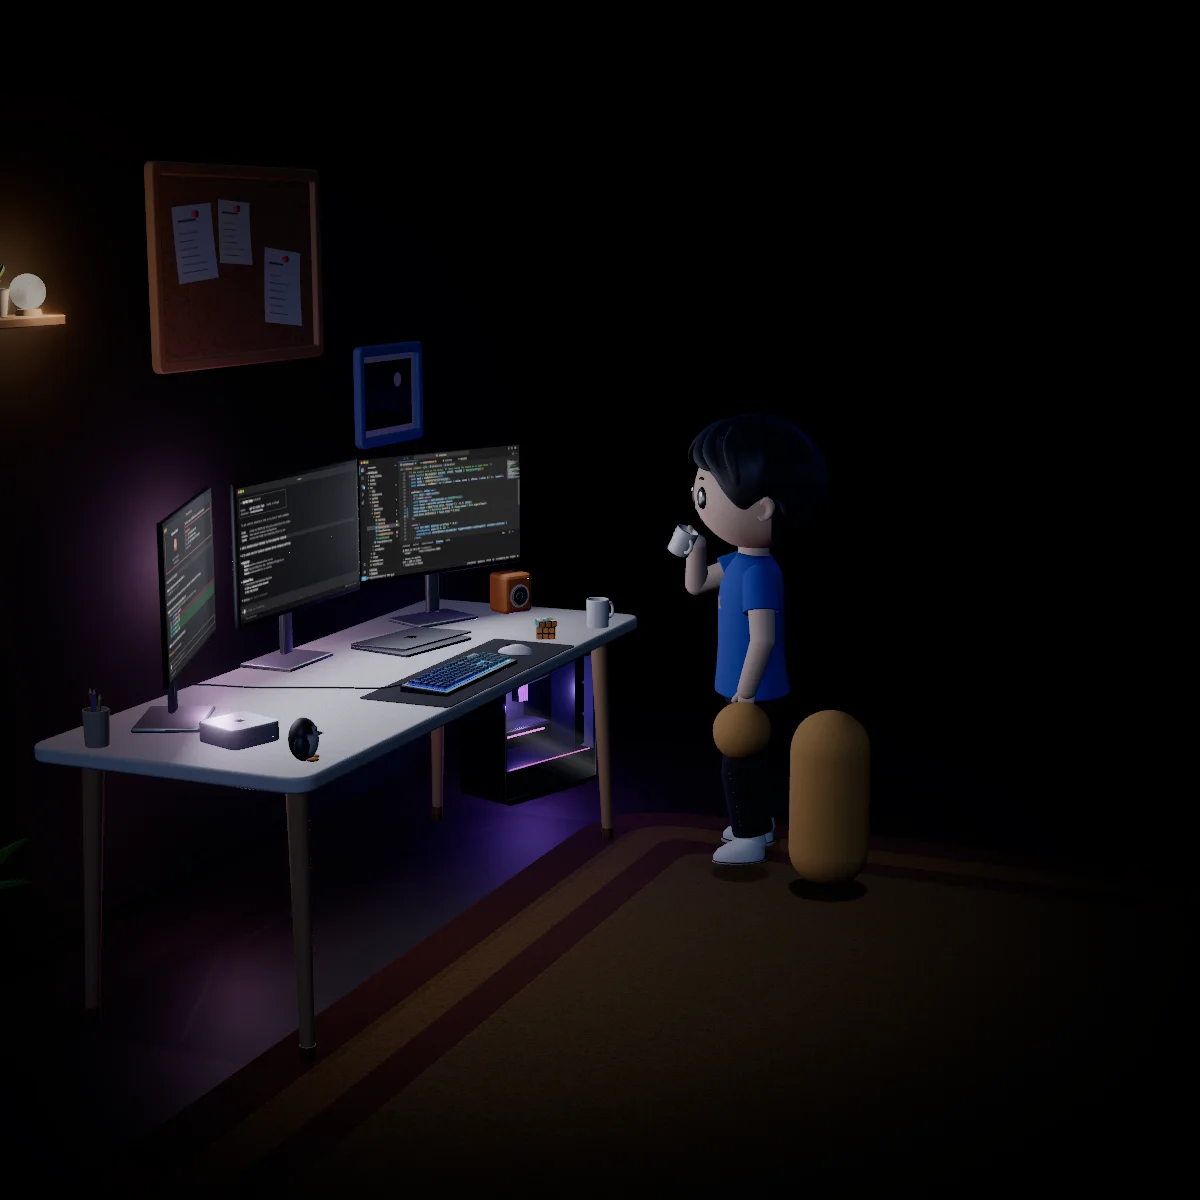
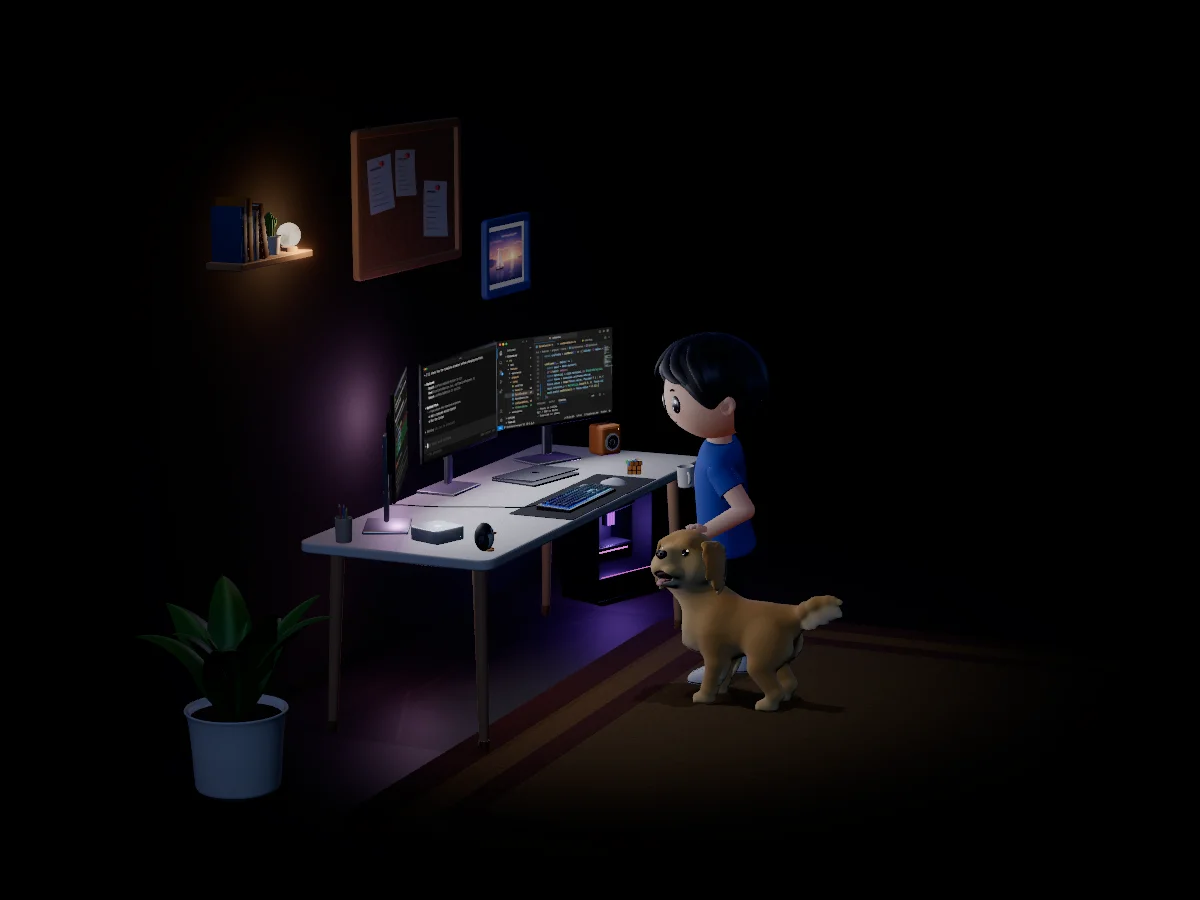
Frame each desk scene still for the layout that shows it
Phones and tablets show the still in a 4:3 box, but it was captured square, so the top and bottom fell away and the cork board and shelf were cut. The capture script now frames a 4:3 still for them and a 0.9 wide poster for desktops, where it sits under the canvas while it loads, and the stage picks the right one with a picture element. Both are re-captured from this branch with the glare free tower, the sailboat print and the new framings. Edison and his dog are this branch's versions and change again after the merge, so capture the stills once more then.

Claude-Session: https://claude.ai/code/session_017zh5xLgF4o9xYgyqBzj9X5

diff --git a/src/features/workstation/stage/StageRender.tsx b/src/features/workstation/stage/StageRender.tsx
@@ -1,6 +1,6 @@
 'use client';
 
-import Image from 'next/image';
+import { getImageProps } from 'next/image';
 import type { StageVariant } from '../types';
 
 /** Describes each scene for screen readers, for both the live canvas and the still image. */
@@ -9,6 +9,9 @@ export const STAGE_ALT: Record<StageVariant, string> = {
   about: 'Edison standing beside his desk at night with a mug of coffee, petting his golden retriever and looking at code on his three monitors.',
 };
 
+/** Tailwind's lg breakpoint, where the stage stops being a 4:3 box and fills half the screen beside the text. */
+const DESKTOP_MEDIA = '(min-width: 1024px)';
+
 interface StageRenderProps {
   variant: StageVariant;
   onError: () => void;
@@ -16,17 +19,20 @@ interface StageRenderProps {
 
 /**
  * Pre-rendered still of the scene. Phones and tablets see only this. On desktop it is the poster
- * the live canvas fades in over.
+ * the live canvas fades in over. Each layout gets a still framed for its own shape (see
+ * scripts/capture-renders.mjs), so phones see the whole room and the desktop poster lines up with
+ * the canvas that replaces it.
  */
 export function StageRender({ variant, onError }: StageRenderProps) {
+  const alt = STAGE_ALT[variant];
+  const desktop = getImageProps({ alt, fill: true, sizes: '50vw', src: `/renders/${variant}-desktop.webp` }).props;
+  const phone = getImageProps({ alt, fill: true, sizes: '100vw', src: `/renders/${variant}.webp` }).props;
+
   return (
-    <Image
-      src={`/renders/${variant}.webp`}
-      alt={STAGE_ALT[variant]}
-      fill
-      sizes="(min-width: 1024px) 50vw, 100vw"
-      className="object-cover"
-      onError={onError}
-    />
+    <picture>
+      <source media={DESKTOP_MEDIA} srcSet={desktop.srcSet} sizes={desktop.sizes} />
+      {/* The phone still is the fallback, and its img carries the fill styling for both. */}
+      <img {...phone} alt={alt} className="object-cover" onError={onError} />
+    </picture>
   );
 }
